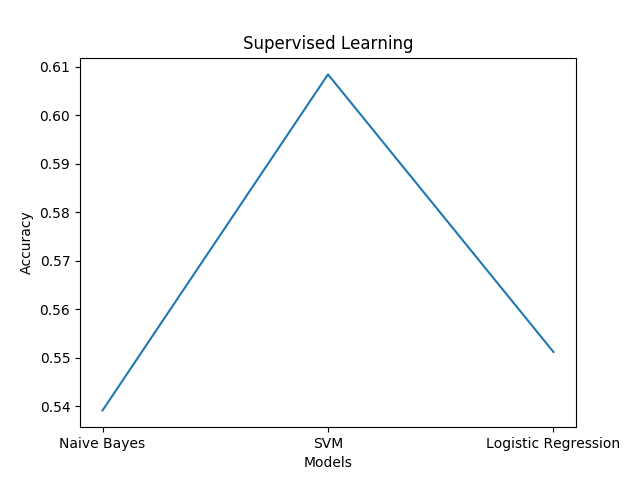
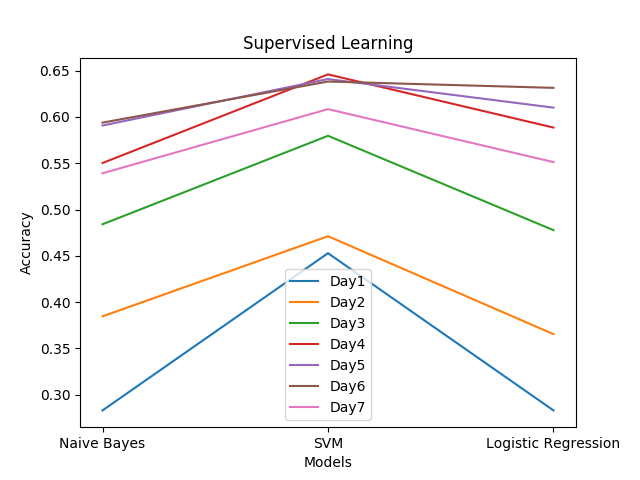
plot SupervisedLearning

diff --git a/plot_plot.py b/plot_plot.py
@@ -1,0 +1,24 @@
+import matplotlib.pyplot as plt
+Models = ['Naive Bayes', 'SVM', 'Logistic Regression']
+day1 = [0.283018, 0.452830, 0.283018]
+day2 = [0.384615, 0.471153, 0.365384]
+day3 = [0.484076, 0.579617, 0.477707]
+day4 = [0.550239, 0.645933, 0.588516]
+day5 = [0.590733, 0.640926, 0.610038]
+day6 = [0.593856, 0.638225, 0.631399]
+day7 = [0.539156, 0.608433, 0.551204]
+
+fig, ax = plt.subplots()
+plt.title("Supervised Learning")
+plt.xlabel("Models")
+plt.ylabel("Accuracy")
+ax.plot(Models, day1, label='Day1')
+ax.plot(Models, day2, label='Day2')
+ax.plot(Models, day3, label='Day3')
+ax.plot(Models, day4, label='Day4')
+ax.plot(Models, day5, label='Day5')
+ax.plot(Models, day6, label='Day6')
+ax.plot(Models, day7, label='Day7')
+plt.legend()
+plt.savefig('SupervisedLearning.png')
+

diff --git a/news.py b/news.py
@@ -18,7 +18,7 @@ def news_data():
     print("Get news articles from newsapi.NewsApiClient in 6 categories")
 
     # get all data from json file
-    df = pd.read_json("data.json")
+    df = pd.read_json("data_day1.json")
     countData(df)
 
     # make training data and testing data
